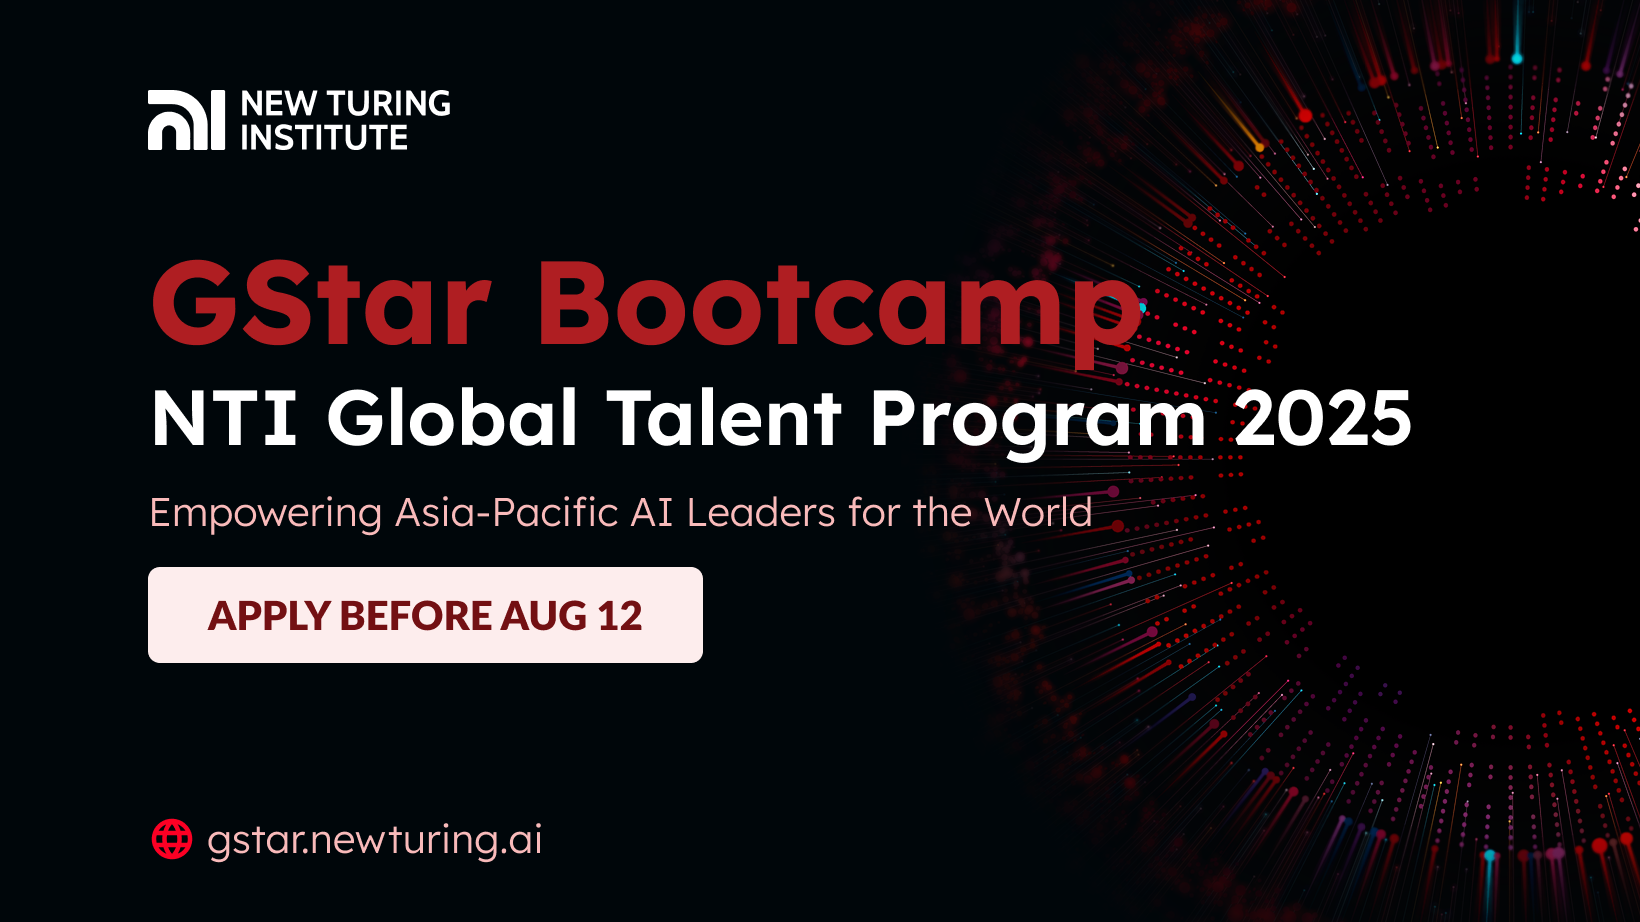
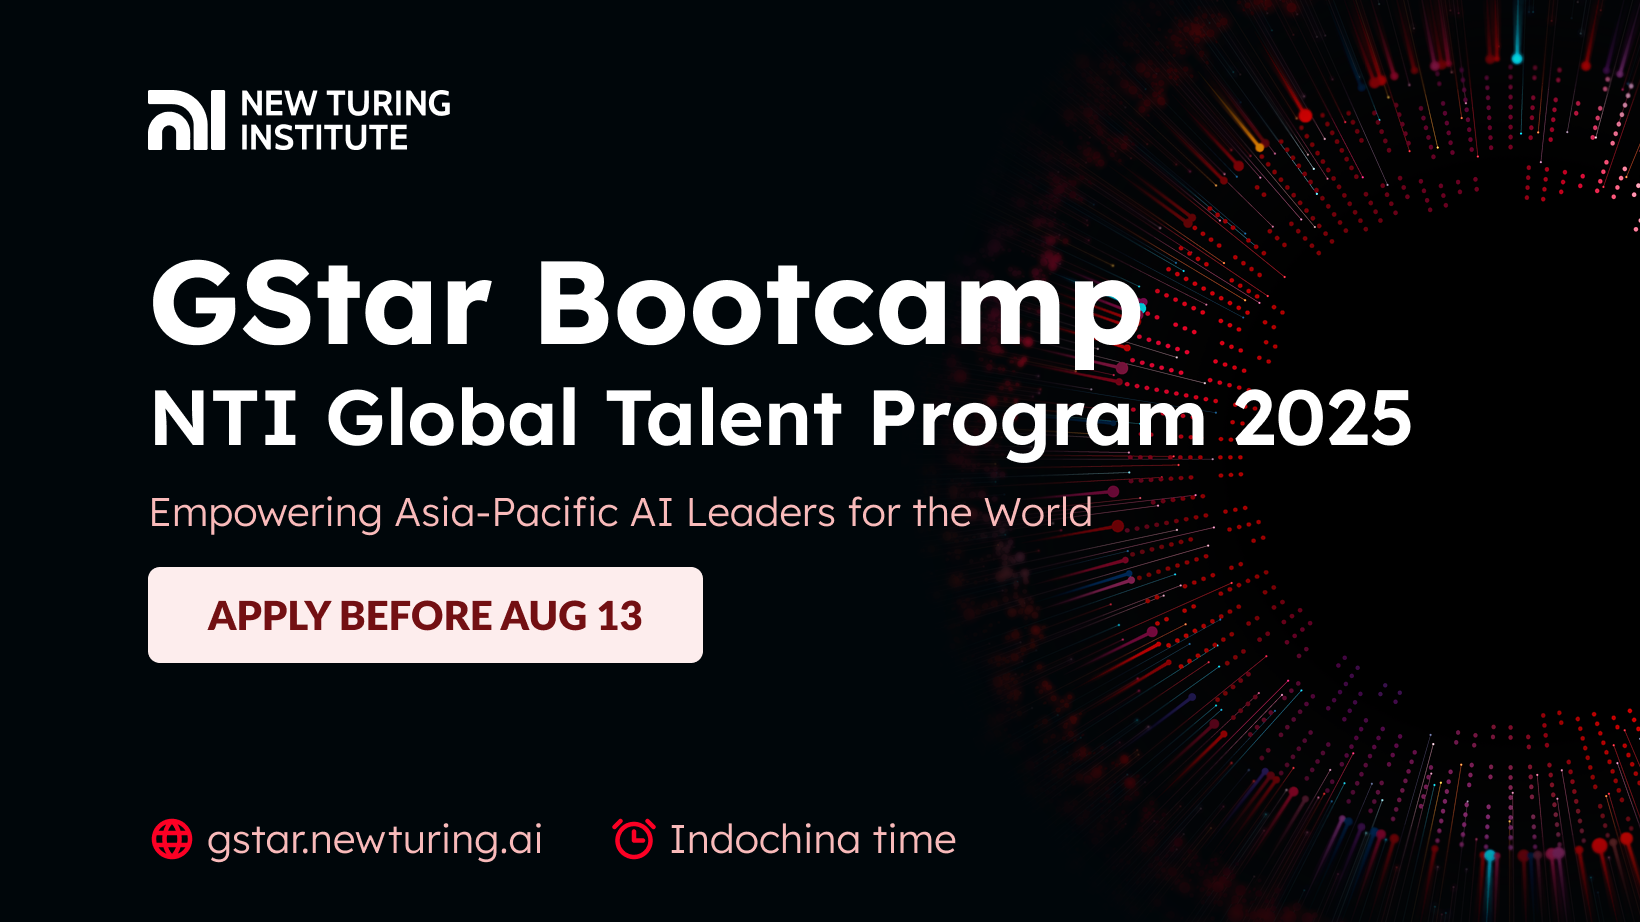
new AI EXPERT NETWORK

Changed region(s): [[0.0933, 0.2733, 0.7152, 0.3948], [0.3732, 0.8807, 0.5909, 0.9414], [0.3732, 0.6681, 0.4043, 0.6985]]

diff --git a/src/containers/Fee/index.js b/src/containers/Fee/index.js
@@ -19,7 +19,7 @@ const Fee = ({ id }) => {
                     </h2>
                         <div className="f1 fw7 pc-red mb2">Up to 100% Coverage</div>
                         <p className="f5 pc-dark-gray mb4">
-                            We are committed to making high-quality AI education accessible through merit-based scholarships.
+                        We charge a tuition fee for this bootcamp and are committed to making high-quality AI education accessible through merit-based scholarships.
                         </p>
                         <a 
                             href={data.register_link}
@@ -67,71 +67,5 @@ const Fee = ({ id }) => {
     );
 };
 
-
-const FeeOld = ({ id }) => {
-    return (
-        <section id={id} className="bg-white container block-pt-pb bg-white">
-            <div className=" center w-100 ph3 pt0 pb3">
-                {/* Title Section */}
-                <div className="mb4">
-                    <p className="f5 pc-red mb2">Tuition Fee</p>
-                    <h2 className="f2 f2-l fw7 pc-red ttu tracked-l ">
-                        <span className="pc-black">Scholarships Available: </span>
-                        <span className="pc-red">Up to 100% Coverage</span>
-                    </h2>
-                </div>
-                {/* Official Tuition Fee Section */}
-                <div className="bg-white pink-week-box br3 pa5 pb4">
-                    <div className="tc">
-                        <h3 className="f3 fw7 pc-dark-gray mb3">Official Tuition Fee</h3>
-                        <div className="f1 fw7 pc-red mb2">2K$</div>
-                        <p className="f5 pc-dark-gray mb4">
-                            We are committed to making high-quality AI education accessible through merit-based scholarships.
-                        </p>
-                        <a 
-                            href={data.register_link}
-                            target="_blank"
-                            rel="noopener noreferrer"
-                            className="bg-pc-red pc-near-white dib ph4 pv3 br3 fw7 f4 pointer dim no-underline"
-                        >
-                            APPLY NOW
-                        </a>
-                    </div>
-                </div>
-                                
-
-                {/* Scholarship Criteria Section */}
-                <div className="bg-white block-scholarship-criteria br3">
-                    <h3 className="f4 fw7 pc-dark-gray mb3">Scholarship Criteria</h3>
-                    <ul className="flex flex-column details-list-scholarship">
-                            <li className="f5 pc-dark-gray ma0">
-                                Demonstrated academic excellence or research achievements
-                            </li>
-                            <li className="f5 pc-dark-gray ma0">
-                                Strong performance in the technical assessment
-                            </li>
-                            <li className="f5 pc-dark-gray ma0">
-                                Personal or family hardship
-                            </li>
-                            <li className="f5 pc-dark-gray ma0">
-                                Clear motivation and commitment aligned with the program's mission
-                            </li>
-                    </ul>
-                    
-                    {/* Important Note */}
-                    <div className="bg-red-5 pa3 br3">
-                        <div className="flex items-center">
-                            <span className="f4 mr2">🔔</span>
-                            <p className="f6 ma0">
-                                Applicants who meet multiple criteria will be prioritized during the scholarship review process. 
-                                Final results will be sent directly to your registered email.
-                            </p>
-                        </div>
-                    </div>
-                </div>
-            </div>
-        </section>
-    );
-};
 
 export default Fee;

diff --git a/src/containers/ProgramTimeline/index.js b/src/containers/ProgramTimeline/index.js
@@ -8,7 +8,7 @@ const ProgramTimeline = ({ id }) => {
     {
       month: '30 July - 17 August',
       title: 'Recruitment',
-      description: ['<b>Aug 13:</b> deadline to apply', '<b>Aug 14-15:</b> entrance test for selected candidates', '<b>Aug 16-17:</b> interviews for selected candidates'],
+      description: ['<b>Aug 13:</b> deadline to apply', '<b>Aug 14-15:</b> entrance test for selected candidates', '<b>Aug 16-17:</b> final evaluation'],
       position: 'left'
     },
     {
